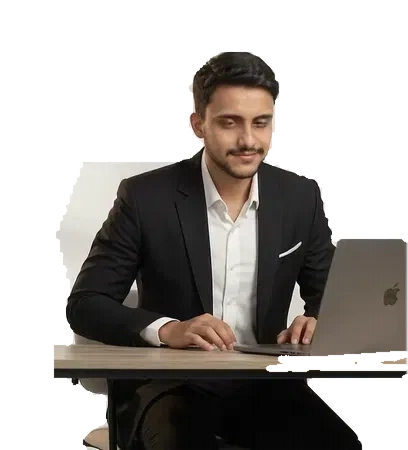
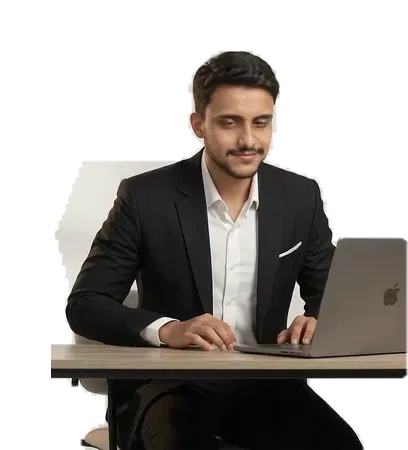
v10

diff --git a/src/styles.css b/src/styles.css
@@ -343,3 +343,26 @@ footer{color:#b1a493;border-color:rgba(225,194,149,.15)}
 @media(max-width:819px){.layer-back:after{opacity:.045}.hero-copy{background:linear-gradient(145deg,rgba(20,18,18,.96),rgba(12,12,14,.91));border-color:rgba(225,194,149,.2);box-shadow:0 22px 72px rgba(0,0,0,.5)}.about-copy,.journey-copy,.skills-copy{background:linear-gradient(145deg,rgba(20,18,18,.97),rgba(12,12,14,.94));border-color:rgba(225,194,149,.2)}.hero h1{font-size:clamp(44px,10.5vw,78px)}.hero-description{font-size:15px;color:#d8cbb9}.intro{color:#c7b9a7}.project-card{background:linear-gradient(145deg,#211e1e,#121214);border-color:rgba(225,194,149,.2)}.project-card p{color:#d0c2b1}.journey-copy .timeline-item h3{color:#f8eddd}.skills-copy p{color:#d0c1af}.contact-links a{color:#fff2de}}
 @media(max-width:480px){.hero-copy{padding:17px 15px;border-radius:20px}.eyebrow{letter-spacing:.12em;font-size:9px}.actions .pill{font-size:12px}.stat-card{border-radius:16px}.nav-pill button{font-size:10px}}
 @media(prefers-reduced-motion:reduce){body:after{display:none}}
+
+/* Verified layout correction: keep the work panels in their own left column.
+   The previous 92vw deck crossed the character canvas and hid the body. */
+@media (min-width: 820px) {
+  .work-deck { left: clamp(32px, 4.5vw, 76px) !important; width: min(50vw, 760px) !important; }
+  .project-card { overflow: hidden; }
+}
+@media (min-width: 820px) and (max-width: 1100px) {
+  .work-deck { width: 48vw !important; }
+  .project-card { grid-template-columns: 1fr !important; }
+  .project-visual { display: none; }
+}
+/* Do not force the animation canvas into an opaque compositing layer. */
+.stage { opacity: 1 !important; mix-blend-mode: normal !important; }
+
+
+/* Final work-panel containment guard: reserve the right side for the character. */
+@media (min-width: 820px) {
+  .work-deck { max-width: calc(100vw - clamp(32px, 4.5vw, 76px) - 44vw) !important; }
+  .project-card { max-width: 100%; }
+  .project-card, .project-visual { min-width: 0; }
+}
+.stage { pointer-events: none; }

diff --git a/README.md b/README.md
@@ -1,15 +1,16 @@
-# ASaranav Ultra-Luxury V8 — Scroll/Character Alignment Fix
+# ASaranav portfolio — repaired source package
 
-This package retains the existing React + TypeScript + Vite portfolio, all seven sections, and the original character frame assets.
+This is the React + TypeScript + Vite source project. It retains the existing seven sections and the original character frame assets.
 
-## Changes in this revision
-- Character anchor now transitions into each section's intended position during the first 22% of that section, rather than drifting toward the *next* section near the end of the current section.
-- The canvas renders one source frame at a time; it does not composite adjacent poses, preventing duplicate silhouettes from alpha blending.
-- Contact now holds the last source pose (frame 238) instead of jumping from frame 238 back to frame 71 when entering Contact.
-- Existing premium obsidian/champagne styling and responsive CSS are retained.
+## Changes in this package
+- Restores the desktop `f192.webp` frame at its original 817×900 size; the prior repair accidentally used the 408×450 mobile frame.
+- Uses one source frame per canvas draw rather than compositing two different poses, avoiding doubled/ghosted silhouettes caused by pose blending.
+- Keeps the last available frame within the active shot while the requested frame is not yet decoded.
+- Constrains the Work project deck to the left side on desktop so it is less likely to cover the character.
+- Retains the existing dark charcoal and champagne-gold design system and responsive layout.
 
-## Run locally
-Install Node.js LTS, extract this ZIP, open a terminal in the folder containing `package.json`, then run:
+## Build and run
+From the folder containing `package.json`:
 
 ```bash
 npm install
@@ -17,7 +18,8 @@ npm run build
 npm run dev
 ```
 
-Open the local URL printed by Vite. If the build succeeds, upload/commit the extracted source to the GitHub repository connected to Vercel, then wait for a successful production deployment.
-
-## Verification status
-The ZIP structure and source edits were checked. A production build could not be verified in the authoring environment because dependencies were not installed successfully (the install timed out). Run `npm install` and `npm run build` locally before deploying.
+## Verification status — please read
+- ZIP structure and frame dimensions were checked.
+- I attempted `npm install` in the build environment, but it timed out. Therefore I cannot claim that `npm run build` passed or that a browser-based scroll test passed.
+- The supplied red-background QA composite shows pale background remnants around some character cutouts. These are present in the source frame alpha/matte data; CSS layering alone cannot remove them safely because the shirt and other clothing also contain white areas. This package does **not** claim those matte halos are fully repaired.
+- Do not deploy to production until `npm run build` succeeds and the scroll animation has been checked locally.
